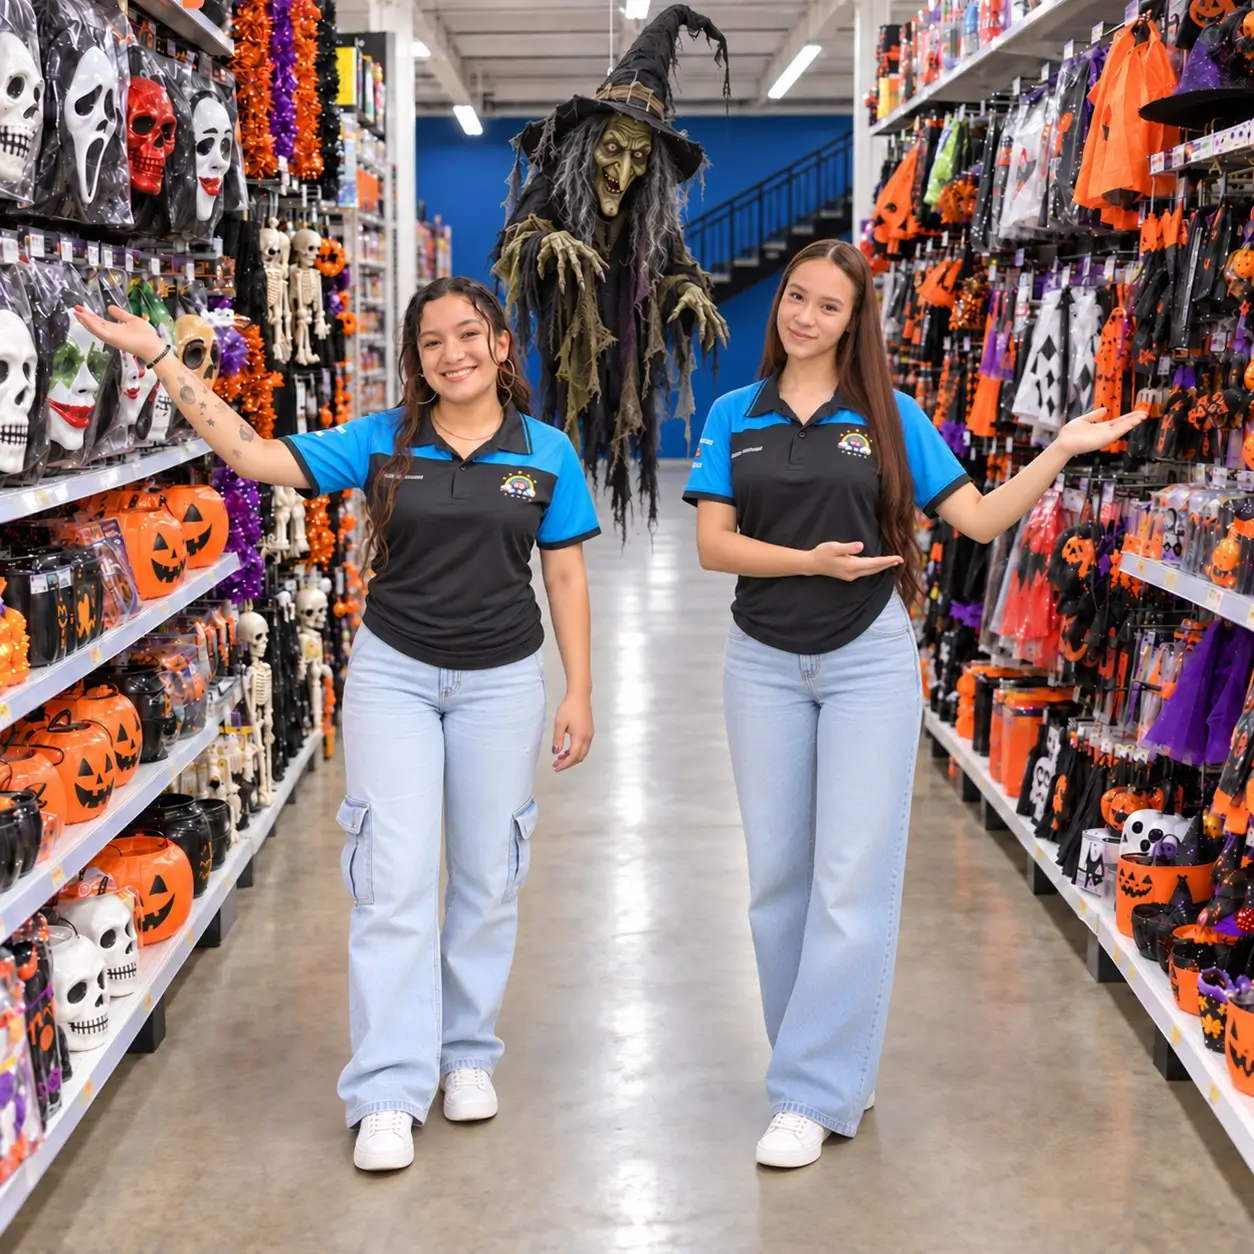
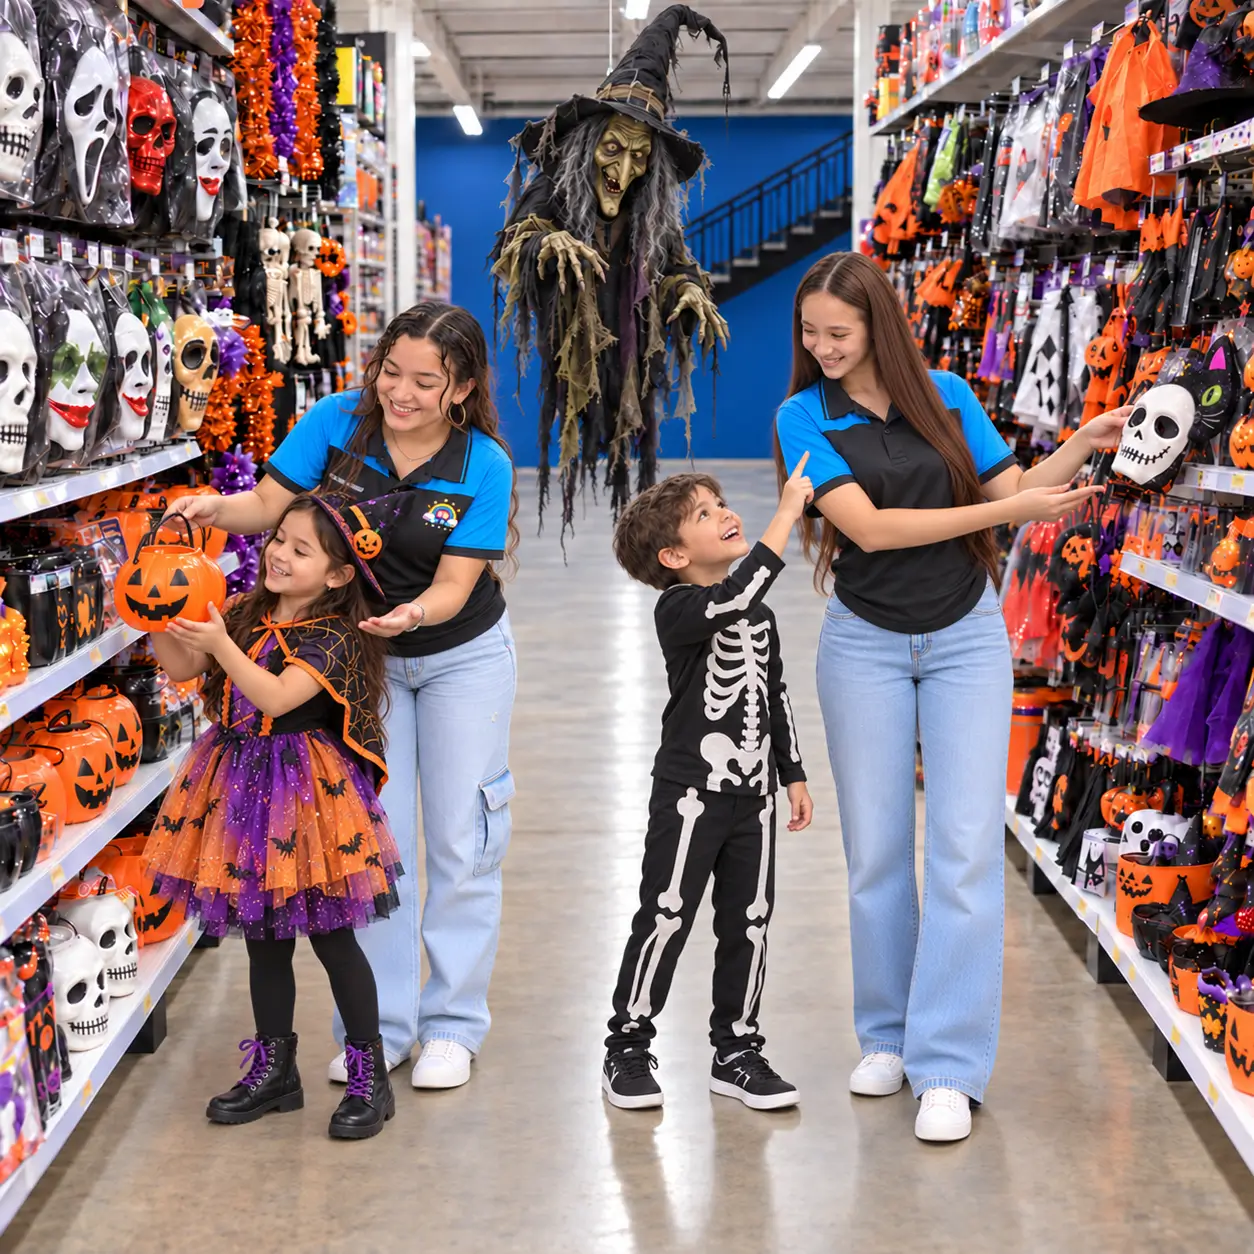
feat: fotos reales nuevas para las 9 tarjetas de sección
Reemplaza las 9 imágenes por fotos de marca consistentes (staff de
uniforme en cada pasillo). Sección Rimax y Sección Belleza pasan a
archivos con nombre propio (seccionrimax.webp, seccionbelleza.webp)
en vez de reusar nuevocatalogorimax.webp/todoenunmismolugar.webp.
og:image y JSON-LD sin tocar (siguen apuntando a ogmegafiestas.jpg
con URL absoluta).

diff --git a/index.html b/index.html
@@ -283,7 +283,7 @@
                      class="bg-white rounded-2xl p-6 lg:p-5 shadow-xl flex flex-col justify-center text-left border border-white/20 hover:shadow-2xl hover:-translate-y-1 transition-all group cursor-pointer">
                     <h3 class="text-lg sm:text-xl font-bold text-gray-900 mb-4 lg:mb-3 text-center">Sección Rimax</h3>
                     <div class="rounded-xl overflow-hidden bg-gray-100 mb-4 lg:mb-3 h-64 sm:h-72 lg:h-[232px] flex items-center justify-center border border-gray-100 p-2">
-                        <img src="nuevocatalogorimax.webp" alt="Sección Rimax" class="w-full h-full object-contain group-hover:scale-105 transition-transform duration-300">
+                        <img src="seccionrimax.webp" alt="Sección Rimax" class="w-full h-full object-contain group-hover:scale-105 transition-transform duration-300">
                     </div>
                     <p class="text-gray-600 text-sm sm:text-base text-center">Armarios, sillas, mesas, mascotas</p>
                 </div>
@@ -296,7 +296,7 @@
                      class="bg-white rounded-2xl p-6 lg:p-5 shadow-xl flex flex-col justify-center text-left border border-white/20 hover:shadow-2xl hover:-translate-y-1 transition-all group cursor-pointer">
                     <h3 class="text-lg sm:text-xl font-bold text-gray-900 mb-4 lg:mb-3 text-center">Sección Belleza</h3>
                     <div class="rounded-xl overflow-hidden bg-gray-100 mb-4 lg:mb-3 h-64 sm:h-72 lg:h-[232px] flex items-center justify-center border border-gray-100 p-2">
-                        <img src="todoenunmismolugar.webp" alt="Sección Belleza" class="w-full h-full object-contain group-hover:scale-105 transition-transform duration-300">
+                        <img src="seccionbelleza.webp" alt="Sección Belleza" class="w-full h-full object-contain group-hover:scale-105 transition-transform duration-300">
                     </div>
                     <p class="text-gray-600 text-sm sm:text-base text-center">Tratamiento, cosmético, accesorio</p>
                 </div>
